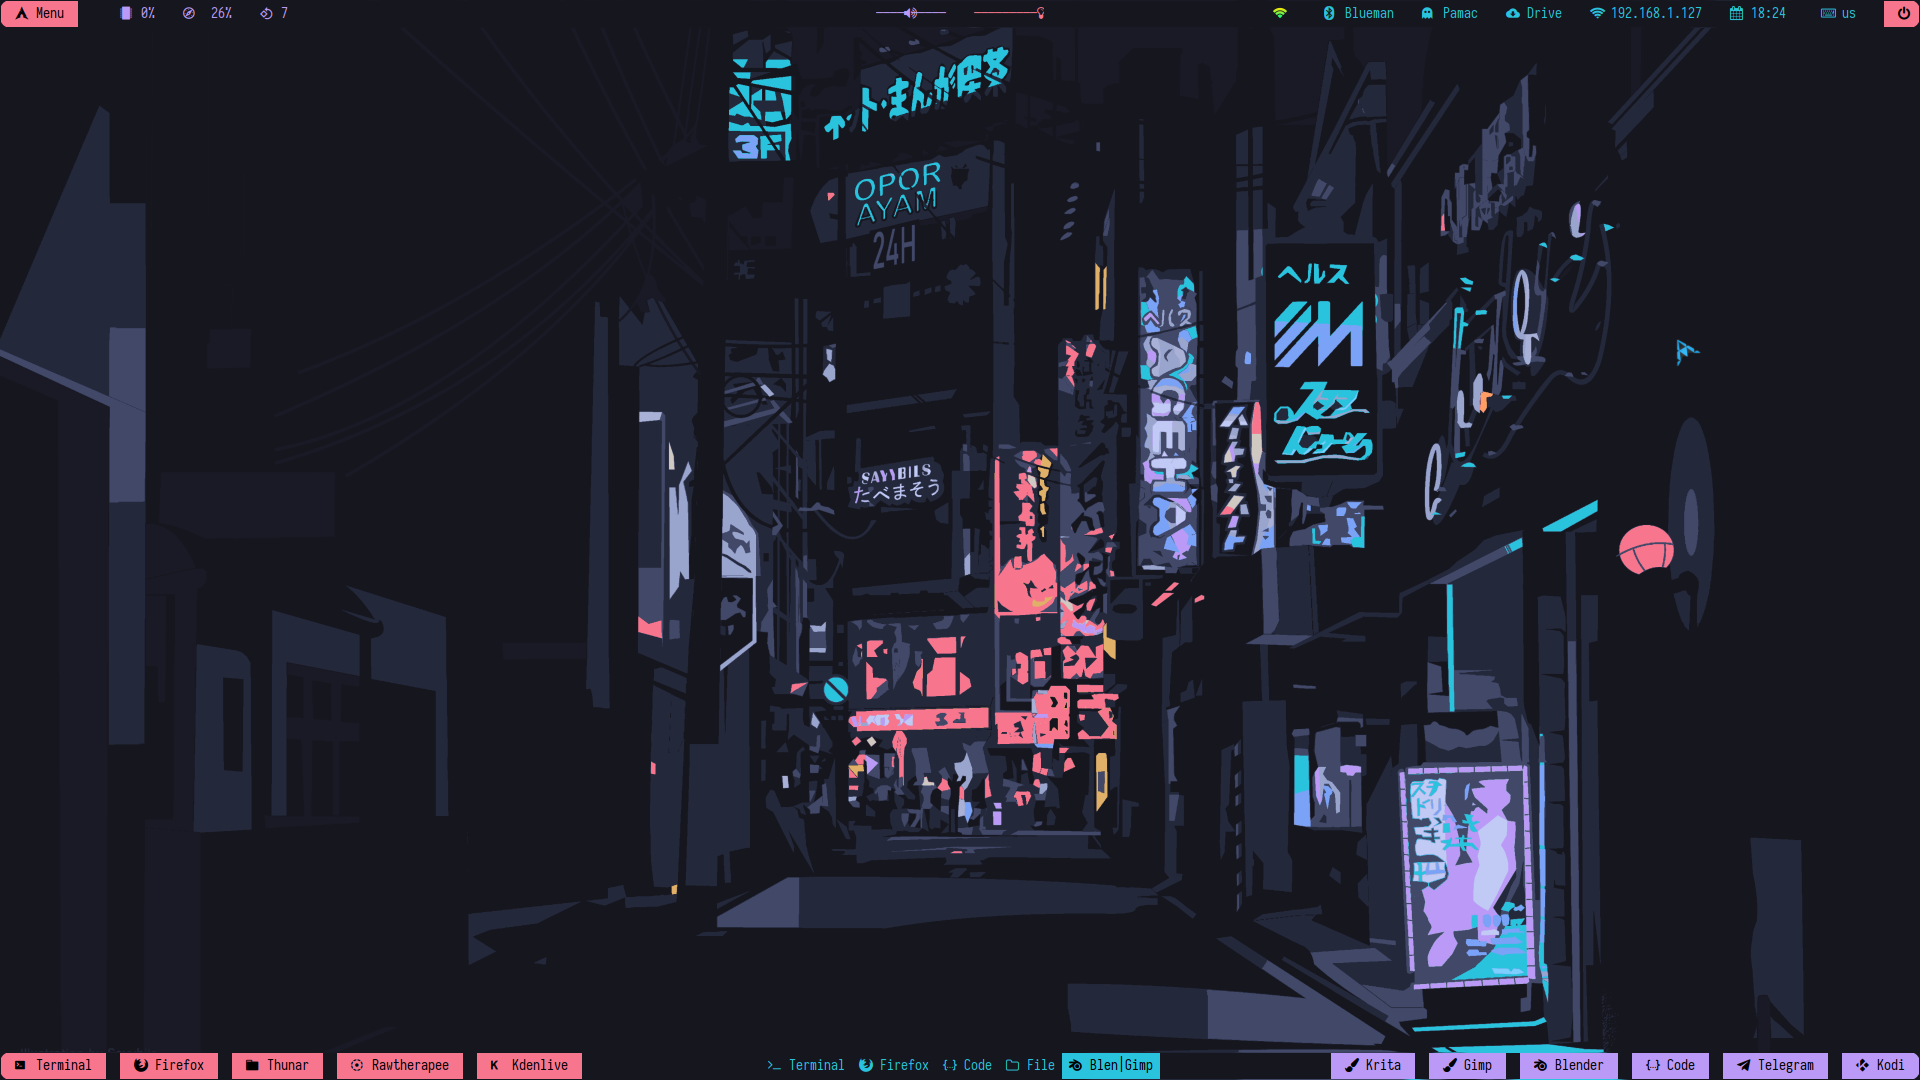
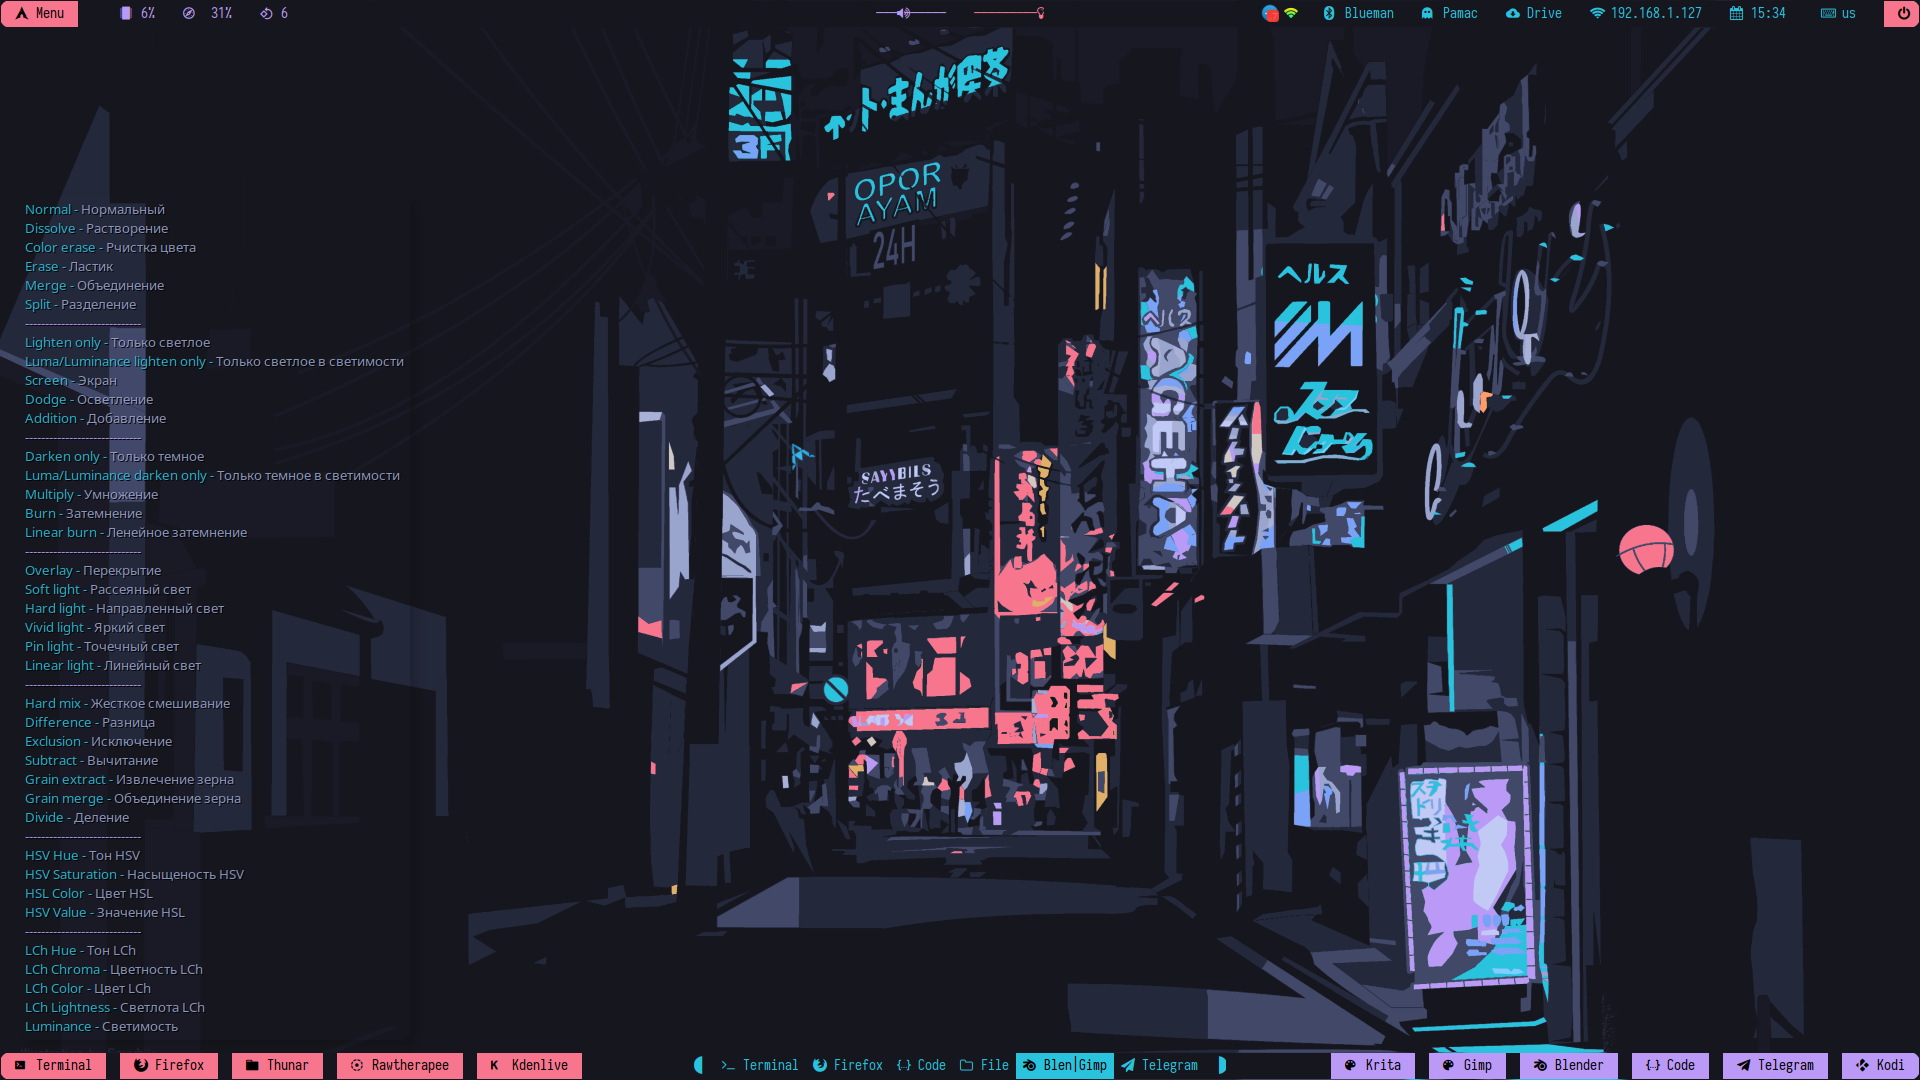
updated/added  D Picom/picom.conf  M README.md  D bin/findapp  D bin/flameshot.sh  D bin/i3-logout  D bin/i3_switch_workspace.sh  D bin/multilock.sh  M i3/keybinds  M i3/polybar/Tokio_night/colors/polybar/colors.ini  M i3/polybar/Tokio_night/config  D i3/polybar/Tokio_night/modules  M i3/rofi/launch

diff --git a/README.md b/README.md
@@ -2,6 +2,7 @@
 ![](./screenshots/terminal.png)
 ![](./screenshots/thunar.png)
 ![](./screenshots/appmenu.png)
+![](./screenshots/fastmenu.png)
 ![](./screenshots/powermenu.png)
 ![](./screenshots/blender.png)
 
